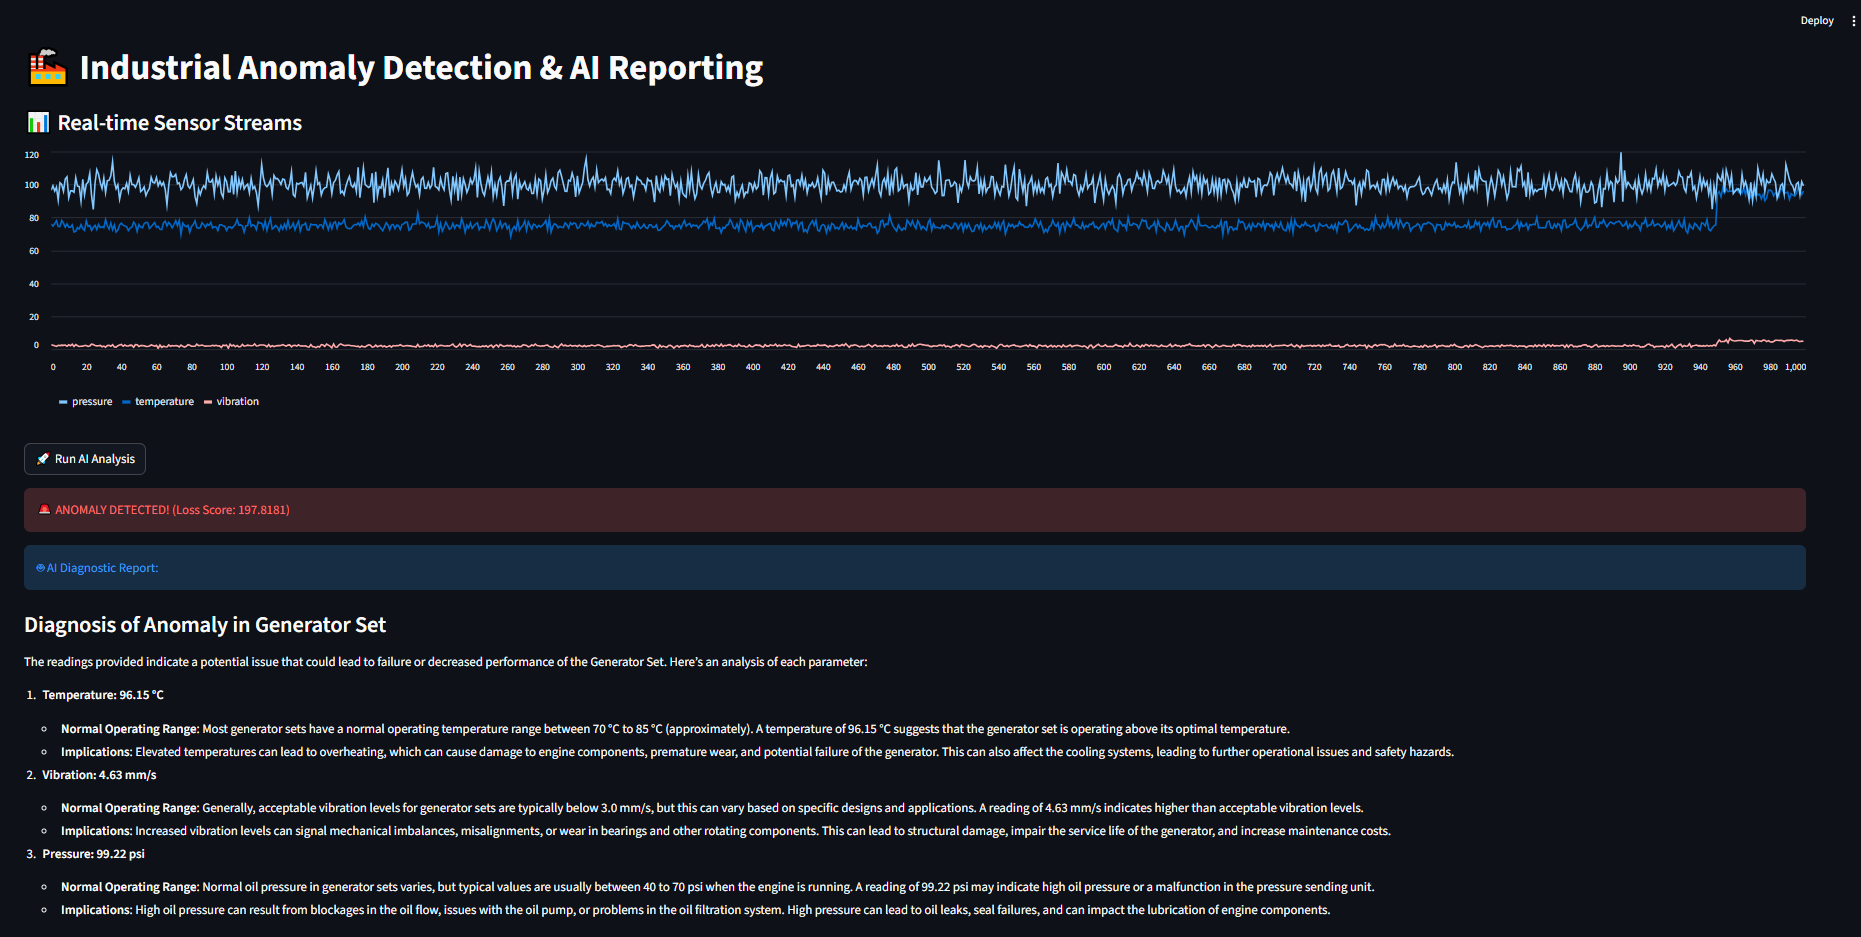
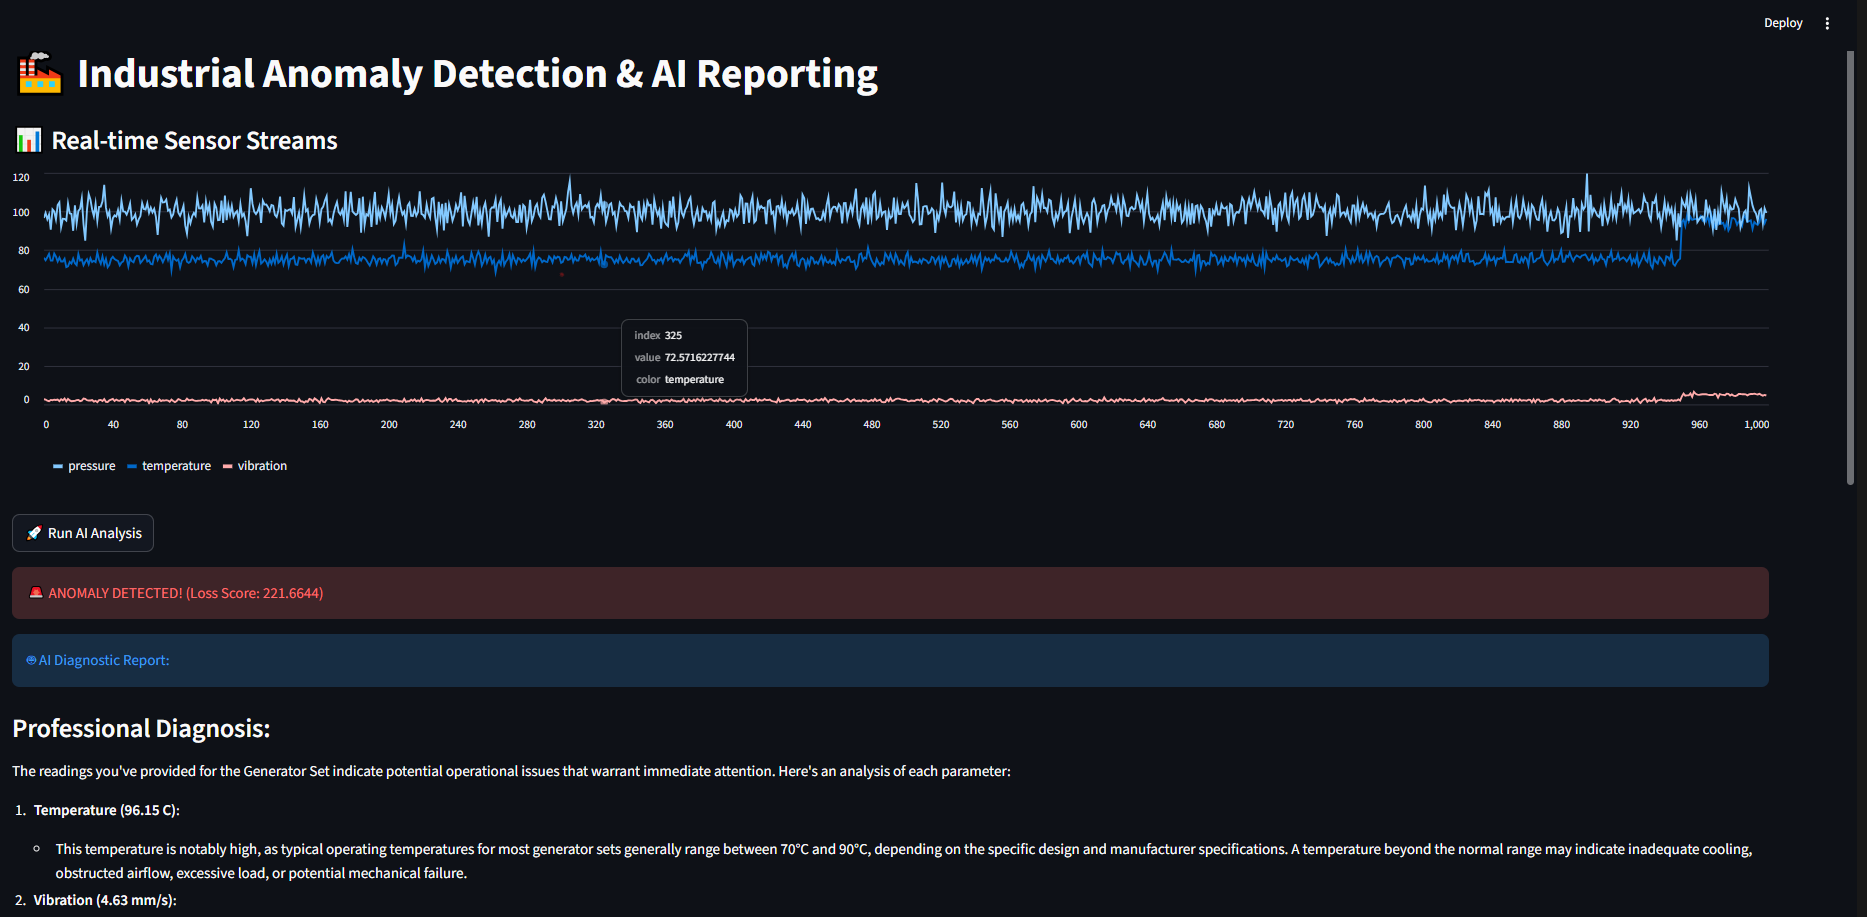
docs: finalize professional manufacturing AI pipeline with database evidence

diff --git a/README.md b/README.md
@@ -1,34 +1,59 @@
 # 🏭 Manufacturing AI Pipeline: Anomaly Detection & Reporting
 
-This project is an end-to-end solution for monitoring industrial generators. It finds mechanical problems using Deep Learning and writes technical reports using AI.
-
-## 🚀 How it Works
-1. **Data Generation:** The system creates synthetic sensor data (Temperature, Vibration, Pressure).
-2. **Deep Learning:** A **PyTorch Autoencoder** monitors the data. It calculates a "Loss Score" to find anomalies.
-3. **Database Logging:** Every detected anomaly is saved to an **SQLite database** using **SQLAlchemy**.
-4. **AI Reporting:** GPT-4o-mini analyzes the numbers and writes a maintenance guide for engineers.
+This project is a professional end-to-end solution designed for monitoring industrial generators. It combines **Deep Learning** for anomaly detection and **Generative AI** for automated technical maintenance reporting.
 
 ---
 
-## 📊 Performance & Insights
-When the system finds a problem (like high vibration), it flags it immediately.
+## 📊 Live System Dashboard
+The system monitors real-time sensor streams (Temperature, Vibration, Pressure) and identifies critical failures using a **PyTorch Autoencoder**.
 
-**Key Metric (Reconstruction Loss):**
+![Industrial Dashboard](assets/demo_preview.png)
+*Figure 1: Real-time monitoring dashboard showing a captured anomaly with a high Loss Score (221.6644).*
+
+---
+
+## 🚀 How it Works
+1.  **Data Generation:** Simulates factory environments by creating synthetic sensor data with added Gaussian noise to represent real-world interference.
+2.  **Data Validation Layer:** The system applies **Z-Score** validation to ensure data integrity before deep learning analysis.
+3.  **Deep Learning (Autoencoder):** The model learns the "normal" state of the machine. It calculates a **Reconstruction Loss**; a high score indicates a mechanical failure or technical anomaly.
+4.  **AI Reporting:** GPT-4o-mini analyzes the specific abnormal sensor readings and generates an immediate technical diagnosis for field engineers.
+5.  **Database Logging:** Every anomaly is stored in an **SQLite database** using **SQLAlchemy (ORM)** to ensure full traceability and history tracking.
+
+---
+
+## 🧠 AI Diagnostic & Traceability
+When the system flags an anomaly, it provides actionable technical advice and logs the event permanently for engineering audits.
+
+![AI Report and Database Notification](assets/demo_preview2.png)
+*Figure 2: AI-generated diagnosis highlighting high temperature/vibration and the "Saved to Database" confirmation.*
+
+### 🗄 Database Logs (Traceability)
+The system ensures that every failure event is recorded. Below are the historical logs stored in the SQLite database:
+
+![SQLite Database Logs](assets/demo_preview_showdata.png)
+*Figure 3: Historical logs showing timestamps, raw sensor values, loss scores, and full AI reports.*
+
+---
+
+## 📊 Performance Metrics
+The system uses **Mean Squared Error (MSE)** to measure the deviation from normal operations.
+
 $$Loss = \frac{1}{n} \sum_{i=1}^{n} (x_i - \hat{x}_i)^2$$
 
-* **Low Loss:** Machine is working normally.
-* **High Loss:** Potential failure detected (e.g., 115.14 loss score).
+* **Normal State:** Loss < 0.5.
+* **Anomalous State:** Loss > 100+ (In recent tests, we captured a score of **221.6644** during a simulated failure).
 
 ---
 
 ## 🛠 Tech Stack
-- **AI/ML:** PyTorch (Autoencoder), OpenAI API
-- **Backend:** FastAPI, SQLAlchemy (ORM)
-- **Database:** SQLite
-- **Frontend:** Streamlit
+* **AI/ML:** PyTorch (Autoencoder), OpenAI API (GPT-4o-mini).
+* **Backend:** FastAPI (Microservice ready), SQLAlchemy (ORM).
+* **Database:** SQLite (Local storage for IoT environments).
+* **Frontend:** Streamlit.
 
 ## 📂 Project Structure
-- `src/model.py`: The brain of the system (Autoencoder).
-- `src/database.py`: SQL table definitions for logging.
-- `src/api.py`: FastAPI endpoints to access data.
-- `main.py`: The main dashboard application.
+* `src/model.py`: The Deep Learning brain (Autoencoder).
+* `src/database.py`: Database models and SQLAlchemy connection.
+* `src/api.py`: FastAPI endpoints for external data access.
+* `src/reporter.py`: Generative AI logic for technical reporting.
+* `main.py`: The primary Streamlit dashboard.
